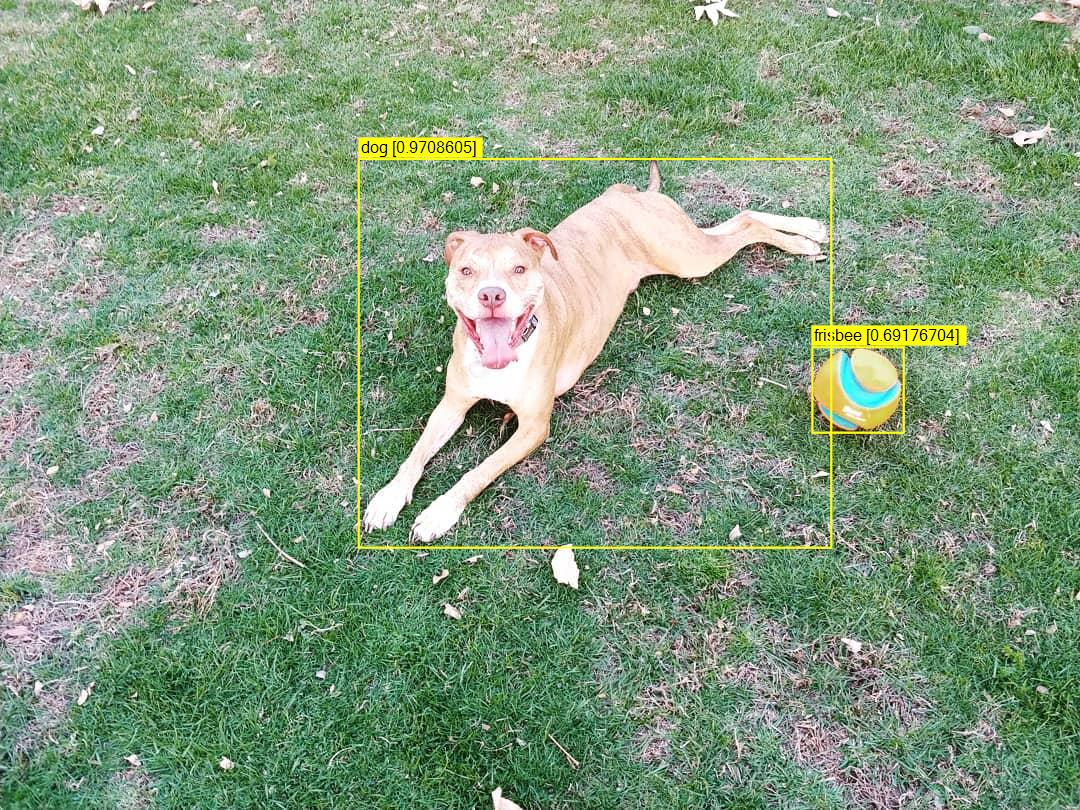
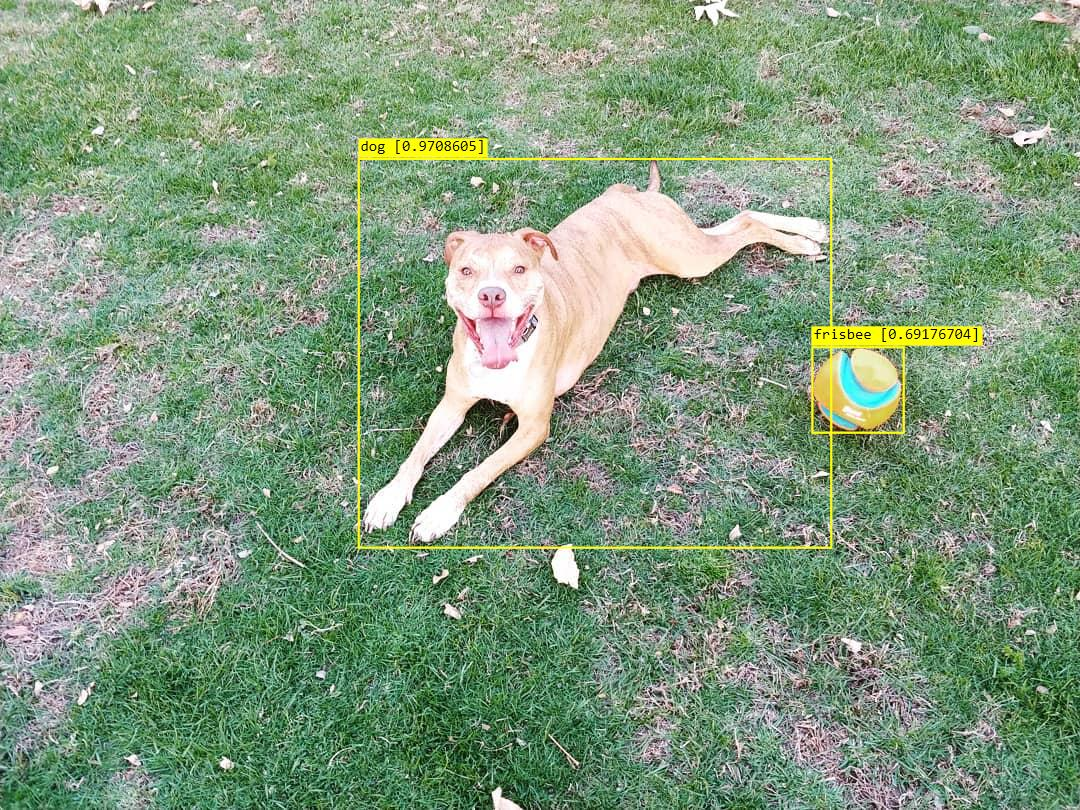
Removed color from label. Clean up Renamed images. Readme

Changed region(s): [[0.3361, 0.1543, 0.4583, 0.216], [0.7333, 0.4012, 0.9167, 0.4321]]

diff --git a/test/Yolov8net.test/Yolov8Test.cs b/test/Yolov8net.test/Yolov8Test.cs
@@ -1,5 +1,6 @@
 using System.Drawing;
 using System.Drawing.Drawing2D;
+using static System.Formats.Asn1.AsnWriter;
 
 namespace Yolov8net.test
 {
@@ -28,14 +29,30 @@ namespace Yolov8net.test
             using var yolo = new Yolov8("./assets/yolov8m.onnx");
             Assert.NotNull(yolo);
 
-            using var image = Image.FromFile("Assets/rufus.jpg");
+            using var image = Image.FromFile("Assets/input.jpg");
             var predictions = yolo.Predict(image);
 
             Assert.NotNull(predictions);
 
             DrawBoxes(yolo.ModelInputHeight, yolo.ModelInputWidth, image, predictions);
 
-            image.Save("rufus-out.jpg");
+            image.Save("result.jpg");
+        }
+
+        [Fact]
+        public void CocoTest_CUDA()
+        {
+            using var yolo = new Yolov8("./assets/yolov8m.onnx", true);
+            Assert.NotNull(yolo);
+
+            using var image = Image.FromFile("Assets/input.jpg");
+            var predictions = yolo.Predict(image);
+
+            Assert.NotNull(predictions);
+
+            DrawBoxes(yolo.ModelInputHeight, yolo.ModelInputWidth, image, predictions);
+
+            image.Save("result.jpg");
         }
 
         private void DrawBoxes(int modelInputHeight, int modelInputWidth, Image image, List<Prediction> predictions)
@@ -55,15 +72,15 @@ namespace Yolov8net.test
                 // Bounding Box Text
                 string text = $"{pred.Label.Name} [{pred.Score}]";
 
-                using (Graphics thumbnailGraphic = Graphics.FromImage(image))
+                using (Graphics graphics = Graphics.FromImage(image))
                 {
-                    thumbnailGraphic.CompositingQuality = CompositingQuality.HighQuality;
-                    thumbnailGraphic.SmoothingMode = SmoothingMode.HighQuality;
-                    thumbnailGraphic.InterpolationMode = InterpolationMode.HighQualityBicubic;
+                    graphics.CompositingQuality = CompositingQuality.HighQuality;
+                    graphics.SmoothingMode = SmoothingMode.HighQuality;
+                    graphics.InterpolationMode = InterpolationMode.HighQualityBicubic;
 
                     // Define Text Options
-                    Font drawFont = new Font("Courier", 12, FontStyle.Regular);
-                    SizeF size = thumbnailGraphic.MeasureString(text, drawFont);
+                    Font drawFont = new Font("consolas", 11, FontStyle.Regular);
+                    SizeF size = graphics.MeasureString(text, drawFont);
                     SolidBrush fontBrush = new SolidBrush(Color.Black);
                     Point atPoint = new Point((int)x, (int)y - (int)size.Height - 1);
 
@@ -72,11 +89,11 @@ namespace Yolov8net.test
                     SolidBrush colorBrush = new SolidBrush(Color.Yellow);
 
                     // Draw text on image 
-                    thumbnailGraphic.FillRectangle(colorBrush, (int)x, (int)(y - size.Height - 1), (int)size.Width, (int)size.Height);
-                    thumbnailGraphic.DrawString(text, drawFont, fontBrush, atPoint);
+                    graphics.FillRectangle(colorBrush, (int)x, (int)(y - size.Height - 1), (int)size.Width, (int)size.Height);
+                    graphics.DrawString(text, drawFont, fontBrush, atPoint);
 
                     // Draw bounding box on image
-                    thumbnailGraphic.DrawRectangle(pen, x, y, width, height);
+                    graphics.DrawRectangle(pen, x, y, width, height);
                 }
             }
         }

diff --git a/src/Yolov8net/Yolov8.cs b/src/Yolov8net/Yolov8.cs
@@ -17,15 +17,10 @@ namespace Yolov8net
         {
 
             if (useCuda)
-            {
-                SessionOptions opts = SessionOptions.MakeSessionOptionWithCudaProvider();
-                _inferenceSession = new InferenceSession(ModelPath, opts);
-            }
+                _inferenceSession = new InferenceSession(ModelPath,
+                    SessionOptions.MakeSessionOptionWithCudaProvider());
             else
-            {
-                SessionOptions opts = new();
-                _inferenceSession = new InferenceSession(ModelPath, opts);
-            }
+                _inferenceSession = new InferenceSession(ModelPath);
 
 
             /// Get model info
@@ -79,7 +74,8 @@ namespace Yolov8net
             Parallel.For(0, output.Dimensions[0], i =>
             {
                 //divide total length by the elements per prediction
-                Parallel.For(0, (int)(output.Length / output.Dimensions[1]), j => {
+                Parallel.For(0, (int)(output.Length / output.Dimensions[1]), j =>
+                {
 
                     float xMin = ((output[i, 0, j] - output[i, 2, j] / 2) - xPad) / gain; // unpad bbox tlx to original
                     float yMin = ((output[i, 1, j] - output[i, 3, j] / 2) - yPad) / gain; // unpad bbox tly to original
@@ -105,7 +101,7 @@ namespace Yolov8net
                     });
 
                 });
-                
+
             });
 
             return result.ToList();

diff --git a/src/Yolov8net/Label.cs b/src/Yolov8net/Label.cs
@@ -7,8 +7,5 @@ namespace Yolov8net
         public int Id { get; set; }
         public string? Name { get; set; }
         public LabelKind Kind { get; set; }
-        public Color Color { get; set; }
-
-        public Label() => Color = Color.Yellow;
     }
 }

diff --git a/README.md b/README.md
@@ -1,0 +1,71 @@
+# Yolov8net
+
+This is a .NET interface for using Yolov8 models on the ONNX runtime.
+
+Usage:
+
+install-package Yolov8.Net
+
+![](input.jpg)
+
+```csharp
+// Create new Yolov8 predictor, specifying the model (in ONNX format)
+// If you are using a custom trained model, you can provide an array of labels. Otherwise, the standard Coco labels are used.
+using var yolo = new Yolov8("./assets/yolov8m.onnx");
+
+// Provide an input image.  Image will be resized to model input if needed.
+using var image = Image.FromFile("Assets/rufus.jpg");
+var predictions = yolo.Predict(image);
+
+// Draw your boxes
+using var graphics = Graphics.FromImage(image);
+foreach (var pred in predictions)
+{
+    var originalImageHeight = image.Height;
+    var originalImageWidth = image.Width;
+
+    var x = Math.Max(pred.Rectangle.X, 0);
+    var y = Math.Max(pred.Rectangle.Y, 0);
+    var width = Math.Min(originalImageWidth - x, pred.Rectangle.Width);
+    var height = Math.Min(originalImageHeight - y, pred.Rectangle.Height);
+
+    ////////////////////////////////////////////////////////////////////////////////////////////
+    // *** Note that the output is already scaled to the original image height and width. ***
+    ////////////////////////////////////////////////////////////////////////////////////////////
+
+    // Bounding Box Text
+    string text = $"{pred.Label.Name} [{pred.Score}]";
+
+    using (Graphics graphics = Graphics.FromImage(image))
+    {
+        graphics.CompositingQuality = CompositingQuality.HighQuality;
+        graphics.SmoothingMode = SmoothingMode.HighQuality;
+        graphics.InterpolationMode = InterpolationMode.HighQualityBicubic;
+
+        // Define Text Options
+        Font drawFont = new Font("consolas", 11, FontStyle.Regular);
+        SizeF size = graphics.MeasureString(text, drawFont);
+        SolidBrush fontBrush = new SolidBrush(Color.Black);
+        Point atPoint = new Point((int)x, (int)y - (int)size.Height - 1);
+
+        // Define BoundingBox options
+        Pen pen = new Pen(Color.Yellow, 2.0f);
+        SolidBrush colorBrush = new SolidBrush(Color.Yellow);
+
+        // Draw text on image 
+        graphics.FillRectangle(colorBrush, (int)x, (int)(y - size.Height - 1), (int)size.Width, (int)size.Height);
+        graphics.DrawString(text, drawFont, fontBrush, atPoint);
+
+        // Draw bounding box on image
+        graphics.DrawRectangle(pen, x, y, width, height);
+    }
+}
+```
+
+```
+![](result.jpg)
+# References
+
+https://github.com/ultralytics/yolov8
+
+https://github.com/mentalstack/yolov5-net
